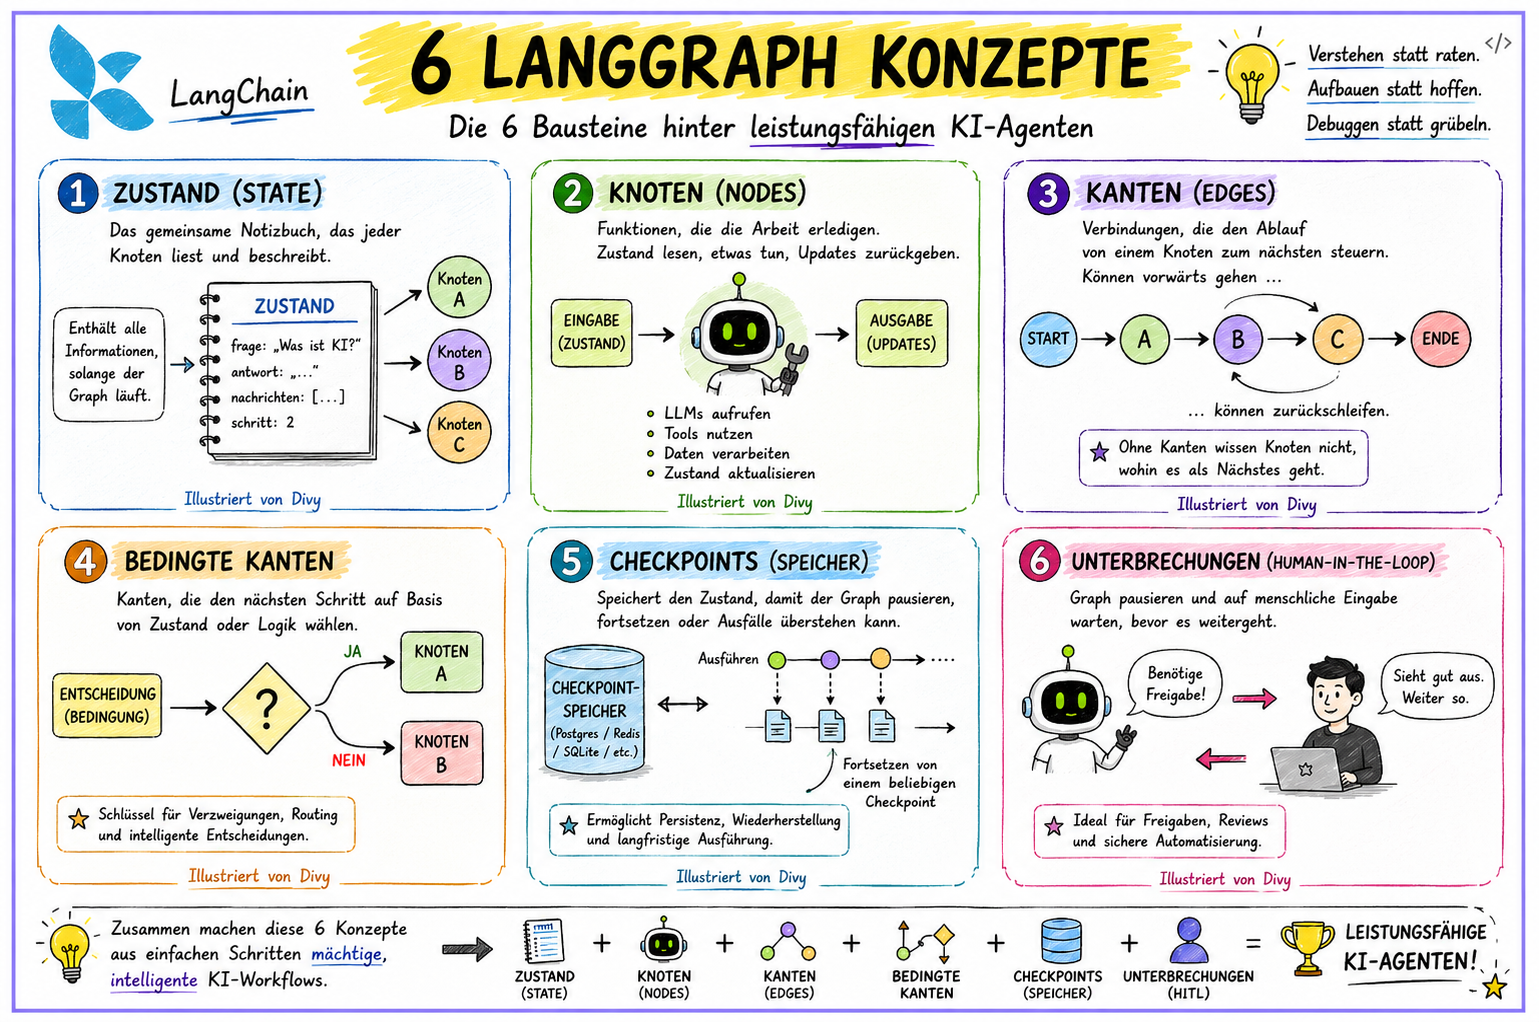
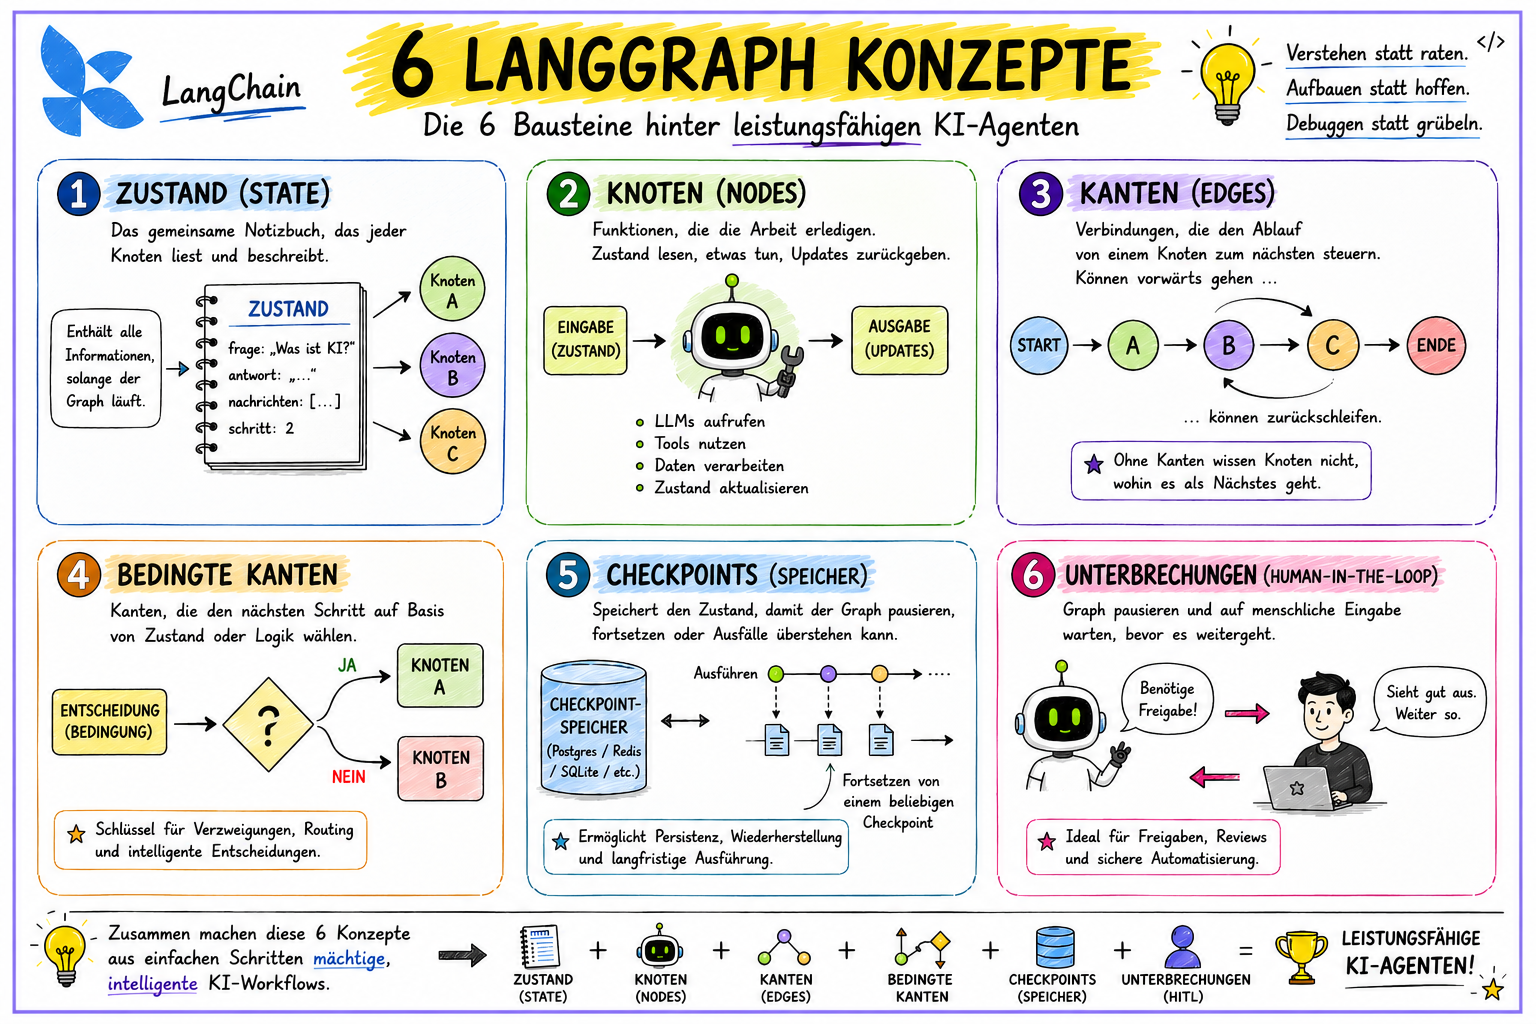
Update 06.2026

Changed region(s): [[0.0, 0.0, 1.0, 1.0], [0.0, 0.9706, 0.0312, 1.0]]

diff --git a/docs/06-frameworks/einsteiger-langgraph.md b/docs/06-frameworks/einsteiger-langgraph.md
@@ -40,14 +40,20 @@ Typische Vorteile sind:
 
 ## Zentrale Konzepte
 
-| Konzept | Bedeutung |
-|---|---|
-| State | Gemeinsamer Zustand, der durch den Workflow wandert |
-| Node | Ein einzelner Bearbeitungsschritt |
-| Edge | Verbindung zwischen Schritten |
-| Conditional Routing | Entscheidung, welcher Pfad als Nächstes läuft |
-| Checkpointing | Speichert Zustand für Resume und Debugging |
-| Interrupt | Technischer Halt für Human-in-the-Loop |
+| Konzept             | Bedeutung                                           |
+| ------------------- | --------------------------------------------------- |
+| State               | Gemeinsamer Zustand, der durch den Workflow wandert |
+| Node                | Ein einzelner Bearbeitungsschritt                   |
+| Edge                | Verbindung zwischen Schritten                       |
+| Conditional Routing | Entscheidung, welcher Pfad als Nächstes läuft       |
+| Checkpointing       | Speichert Zustand für Resume und Debugging          |
+| Interrupt           | Technischer Halt für Human-in-the-Loop              |
+|                     |                                                     |
+
+<img src="https://raw.githubusercontent.com/ralf-42/GenAI/main/07_image/langgraph_konzepte.png" class="logo" width="950"/>
+<p><font color='black' size="2">
+KI-generiertes Bild
+</font></p>
 
 ---
 